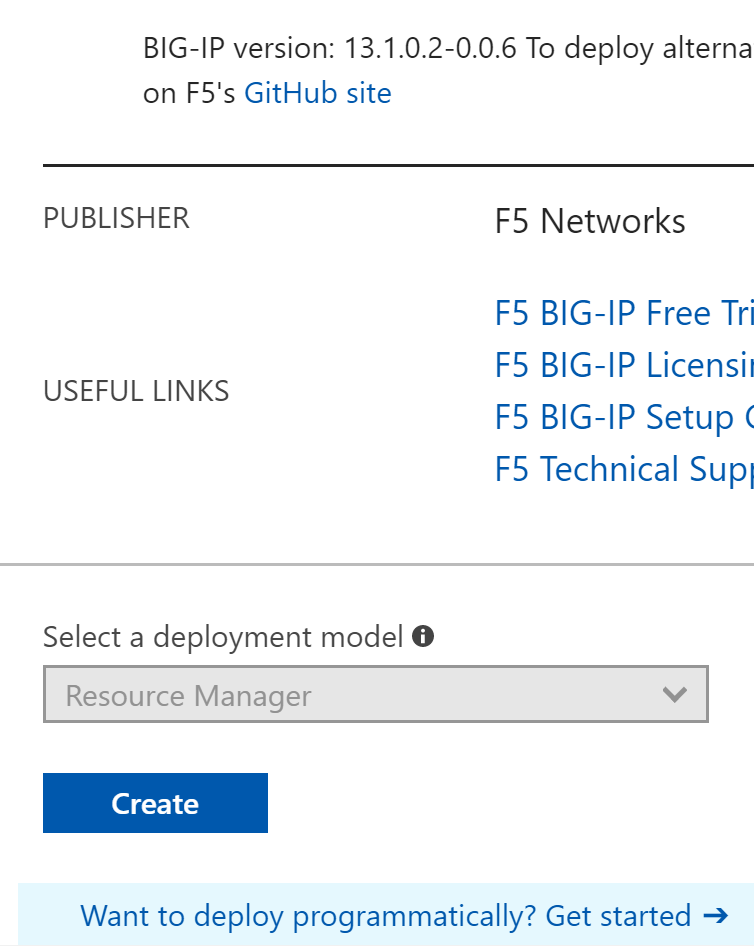
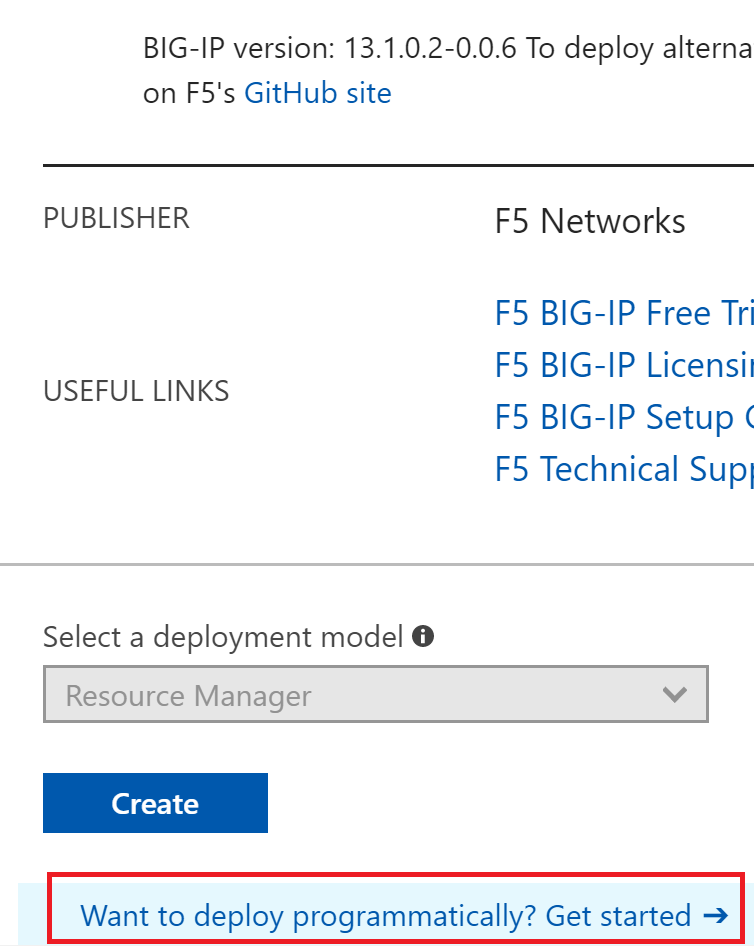
doc updates

Changed region(s): [[0.061, 0.9197, 1.0, 1.0]]

diff --git a/docs/intro.rst b/docs/intro.rst
@@ -17,7 +17,7 @@ First login to the Azure Portal at: https://portal.azure.us (US Government) OR h
 Enable Programmatic Access to F5 Resources
 ~~~~~~~~~~~~~~~~~~~~~~~~~~~~~~~~~~~~~~~~~~
 
-Before you launch the template; you will need to enable programmatic deployment for your F5 devices.  
+Before you launch the template; you will need to enable programmatic deployment for your F5 devices.
 
 Go to Marketplace
 *****************
@@ -34,32 +34,32 @@ In the Market place search enter “f5 byol best” and hit the “enter” key.
 
  .. image:: /_static/marketplace-f5-byol.png
   :scale: 50%
- 
+
 Click on "F5 BIG-IP ADC BEST - BYOL"
 
 .. warning:: DO NOT SELECT “F5 BIG-IP ADC+SEC BEST – BYOL”
 
-Verify that you have the correct version by looking at the description and you should see "..version: **13.1**..".  
+Verify that you have the correct version by looking at the description and you should see "..version: **13.1**..".
 
 At the very bottom of the page click on “Want to deploy programmatically?”
- 
+
  .. figure:: /_static/marketplace-want-to-deploy.png
    :scale: 50%
-  
-  
+
+
 Enable Programmatic Deployment
 ******************************
 Click on “Enable” next to the Subscription
- 
+
  .. figure:: /_static/enable-programattic.png
   :scale: 50%
 
-Create Service Principal
-~~~~~~~~~~~~~~~~~~~~~~~~
+Create a Service Principal
+~~~~~~~~~~~~~~~~~~~~~~~~~~
 
-A Service Principal will be used to deploy F5 BIG-IP devices and be used by the BIG-IP's to dynamically update Azure User Defined Routes (UDR).  
+A Service Principal will be used to deploy F5 BIG-IP devices and be used by the BIG-IP's to dynamically update Azure User Defined Routes (UDR).
 
-The following steps are how to create a Service Principal via the Azure Portal.  
+The following steps are how to create a Service Principal via the Azure Portal.
 
 You will need to retrieve the following three pieces of information that will be used later.
 
@@ -67,7 +67,74 @@ You will need to retrieve the following three pieces of information that will be
 #. Application Key (a.k.a. Client Secret)
 #. Tenant ID
 
-The following will guide you on how to retrieve this information.
+It is recommended to create a text file (i.e. using Notepad) that contains:
+
+.. code-block:: none
+
+  tenant id: XXXXXXXX-XXXX-XXXX-XXXX-XXXXXXXXXXXX
+  client id: XXXXXXXX-XXXX-XXXX-XXXX-XXXXXXXXXXXX
+     secret: XXXXXXXXXXXXXXXXXXXXXXXXXXXXXXXXXX
+
+
+The following will guide you on how to retrieve this information via the Azure Portal OR Azure CLI (choose one method)
+
+Create Service Principal via Azure CLI
+~~~~~~~~~~~~~~~~~~~~~~~~~~~~~~~~~~~~~~
+
+Use this method if you prefer using a command line interface or have access to Cloud Shell (available in Azure Cloud, not available in Microsoft Azure Government).
+
+To access Azure Cloud Shell see: https://docs.microsoft.com/en-us/azure/cloud-shell/overview
+
+First verify the subscription.
+
+.. code-block:: shell
+
+  student01@Azure:~$ az account show
+  {
+    "environmentName": "AzureCloud",
+    "id": "XXXXXX-XXXX-XXXX-XXXX-XXXXXXXXXXXXXX",
+    "isDefault": true,
+    "name": "my_subscription",
+    "state": "Enabled",
+    "tenantId": "YYYYY-YYYY-YYYY-YYYY-YYYYYYYYYY",
+    "user": {    "name": "studnt01@example.com",
+      "type": "user"
+    }}
+
+If you do not see the correct subscription run to view subscriptions
+
+.. code-block:: shell
+
+  student01@Azure:~$ az account list
+
+Then set the default to the correct subscription.
+
+.. code-block:: shell
+
+  student01@Azure:~$ az account set -s XXXXXX-XXXX-XXXX-XXXX-XXXXXXXXXXXXXX
+
+To create your service principal run (replace "student01" with a unique value or "bigip")
+
+.. code-block:: shell
+
+    student01@Azure:~$ az ad sp create-for-rbac -n "student01-sp"
+    Retrying role assignment creation: 1/36
+    {
+      "appId": "XXXXXXXX-XXXX-XXXX-XXXX-XXXXXXXXXXXX",
+      "displayName": "student01-sp",
+      "name": "http://student01-sp",
+      "password": "SSSSSSSS-SSSS-SSSS-SSSS-SSSSSSSSSSSS",
+      "tenant": "TTTTTTTT-TTTT-TTTT-TTTT-TTTTTTTTTTTT"
+    }
+
+.. tip:: When using Azure Cloud Shell you will need to highlight the text in your browser and "right-click" and select "copy" to copy and paste the text from the browser.
+
+Save the values of "tenant", "password", and "appId" to your text file that you created earlier.
+
+Create Service Principal via Azure Portal
+~~~~~~~~~~~~~~~~~~~~~~~~~~~~~~~~~~~~~~~~~
+
+If you used the Azure CLI to create your Service Principal you can skip the following.
 
 .. note:: The following is adapted from: https://docs.microsoft.com/en-us/azure/azure-resource-manager/resource-group-create-service-principal-portal#create-an-azure-active-directory-application
 
@@ -78,7 +145,7 @@ In the menu on the left click on "Azure Active Directory".
 
  .. figure:: /_static/azure-active-directory.png
   :scale: 50%
-  
+
 Create App Registration
 ************************
 
@@ -86,7 +153,7 @@ Next click on "App Registrations"
 
  .. figure:: /_static/app-registrations.png
   :scale: 50%
-  
+
 And click on "New application registration".
 
 Enter a name (i.e. "bigipsp") and a Sign-on URL (i.e. "http://bigipsp").
@@ -144,17 +211,15 @@ Under "Select" type the name of the principal that you previously created (i.e. 
 
 .. figure:: /_static/iam-add-permissions.png
   :scale: 50%
-  
-Get Tenant ID
-**************
+
+Get Directory ID
+****************
 
 The third piece of information that you will need is the "Tenant ID".
 
 Under Azure Active Directory retrieve the "Directory ID".
 
 .. note:: Please see: https://docs.microsoft.com/en-us/azure/azure-resource-manager/resource-group-create-service-principal-portal#get-tenant-id
-
-
 
 Launch Deployment
 ~~~~~~~~~~~~~~~~~
@@ -176,17 +241,17 @@ You should see.
 
 .. figure:: /_static/custom-deployment.png
   :scale: 30%
- 
+
 Username and Password
 *********************
- 
+
 Fill in the required username/password for the VDSS Jump Boxes.  These devices will be used for administrative access to the environment.
 
 .. figure:: /_static/custom-deployment-user-pass-1.png
   :scale: 50%
-  
+
 F5 Information
-**************  
+**************
 Next fill in the three pieces of information that was previously collected for the Service Principal and F5 license keys.
 
 .. figure:: /_static/custom-deployment-f5-info.png
@@ -199,11 +264,11 @@ Accept the Terms and Conditions and click Purchase.
 
 .. figure:: /_static/custom-deployment-tandc.png
   :scale: 50%
-  
+
 Verify Template Complete
 ************************
 
-It will take ~40 - ~60 minutes for the template to complete.  
+It will take ~40 - ~60 minutes for the template to complete.
 
 Under Resource Groups find the "Deployments" item and verify that you see "Succeeded".
 
